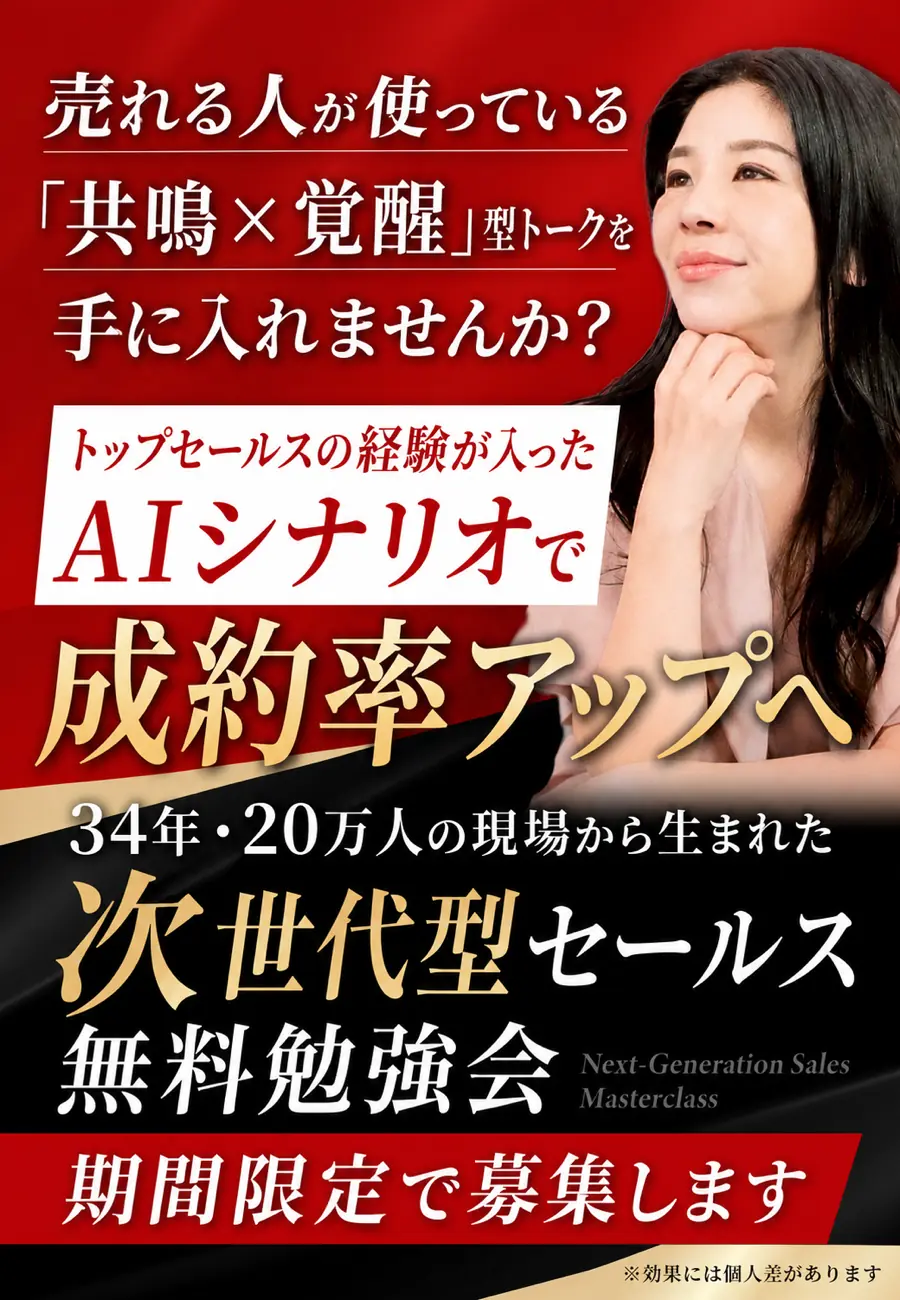
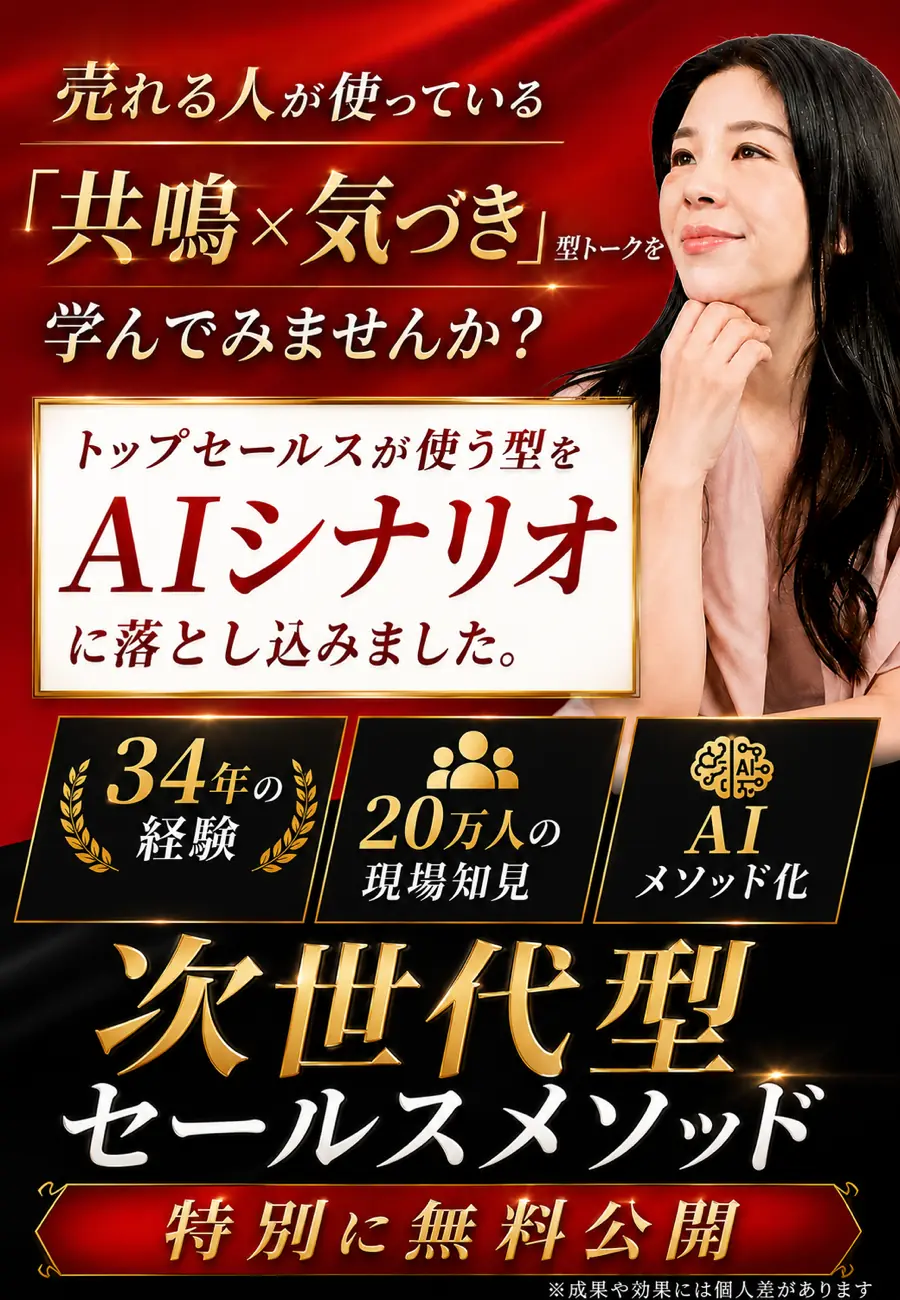
update FV image: clean red background + sparkle gold text version

diff --git a/tanaka-os-manual/index.html b/tanaka-os-manual/index.html
@@ -271,6 +271,74 @@ section.tanaka-message .signature {
   font-style: italic;
 }
 
+/* データ量バナー */
+.stats-banner {
+  background: #fff;
+  border: 1px solid var(--border);
+  border-radius: 14px;
+  padding: 26px 30px;
+  margin-bottom: 24px;
+}
+.stats-eyebrow {
+  margin: 0 0 4px;
+  font-size: 11.5px;
+  letter-spacing: 0.1em;
+  text-transform: uppercase;
+  color: var(--text-muted);
+  font-weight: 600;
+}
+.stats-title {
+  margin: 0 0 18px;
+  font-size: 18px;
+  font-weight: 700;
+  letter-spacing: -0.02em;
+  color: var(--text);
+}
+.stats-grid {
+  display: grid;
+  grid-template-columns: repeat(4, 1fr);
+  gap: 14px;
+}
+.stat-card {
+  background: linear-gradient(135deg, #eef2ff 0%, #e0e7ff 100%);
+  border-radius: 10px;
+  padding: 16px 14px;
+  text-align: center;
+}
+.stat-label {
+  margin: 0 0 4px;
+  font-size: 11px;
+  color: var(--accent-text);
+  font-weight: 600;
+  letter-spacing: 0.02em;
+}
+.stat-value {
+  margin: 0;
+  font-size: 26px;
+  font-weight: 800;
+  color: var(--accent-text);
+  font-variant-numeric: tabular-nums;
+  letter-spacing: -0.02em;
+  line-height: 1.2;
+}
+.stat-unit {
+  font-size: 13px;
+  font-weight: 600;
+  margin-left: 2px;
+}
+.stats-note {
+  margin: 16px 0 0;
+  font-size: 12.5px;
+  color: var(--text-muted);
+  line-height: 1.7;
+}
+.stats-note strong { color: var(--text-secondary); }
+@media (max-width: 640px) {
+  .stats-banner { padding: 22px 20px; }
+  .stats-grid { grid-template-columns: repeat(2, 1fr); }
+  .stat-value { font-size: 22px; }
+}
+
 /* 今後の予告 */
 section.coming-soon {
   background: var(--bg-subtle);
@@ -331,6 +399,31 @@ footer p { margin: 4px 0; }
     <span>更新: 2026-05-11</span>
   </div>
 </header>
+
+<!-- データ量バナー -->
+<section class="stats-banner">
+  <p class="stats-eyebrow">📊 田中祐一OS の裏側で読み込んでいるデータ</p>
+  <h2 class="stats-title">田中祐一の2年分の添削・コンサル記録から蒸留</h2>
+  <div class="stats-grid">
+    <div class="stat-card">
+      <p class="stat-label">個人コンサル記録</p>
+      <p class="stat-value">474<span class="stat-unit">件</span></p>
+    </div>
+    <div class="stat-card">
+      <p class="stat-label">グループコンサル</p>
+      <p class="stat-value">109<span class="stat-unit">回</span></p>
+    </div>
+    <div class="stat-card">
+      <p class="stat-label">Loom個別添削</p>
+      <p class="stat-value">2,508<span class="stat-unit">件</span></p>
+    </div>
+    <div class="stat-card">
+      <p class="stat-label">ジャンル別添削事例</p>
+      <p class="stat-value">122<span class="stat-unit">件</span></p>
+    </div>
+  </div>
+  <p class="stats-note">これらの生データから抽出した <strong>11観点 × 各ジャンルの固有論点 × 田中祐一メソッドの核心原則</strong> を、添削のたびに AI に読み込ませています。<br>※ 集計時点 2026-05-11 / 元データは社内アーカイブに保管。今後も日々追加されます。</p>
+</section>
 
 <nav class="toc">
   <h2>このガイドの内容</h2>